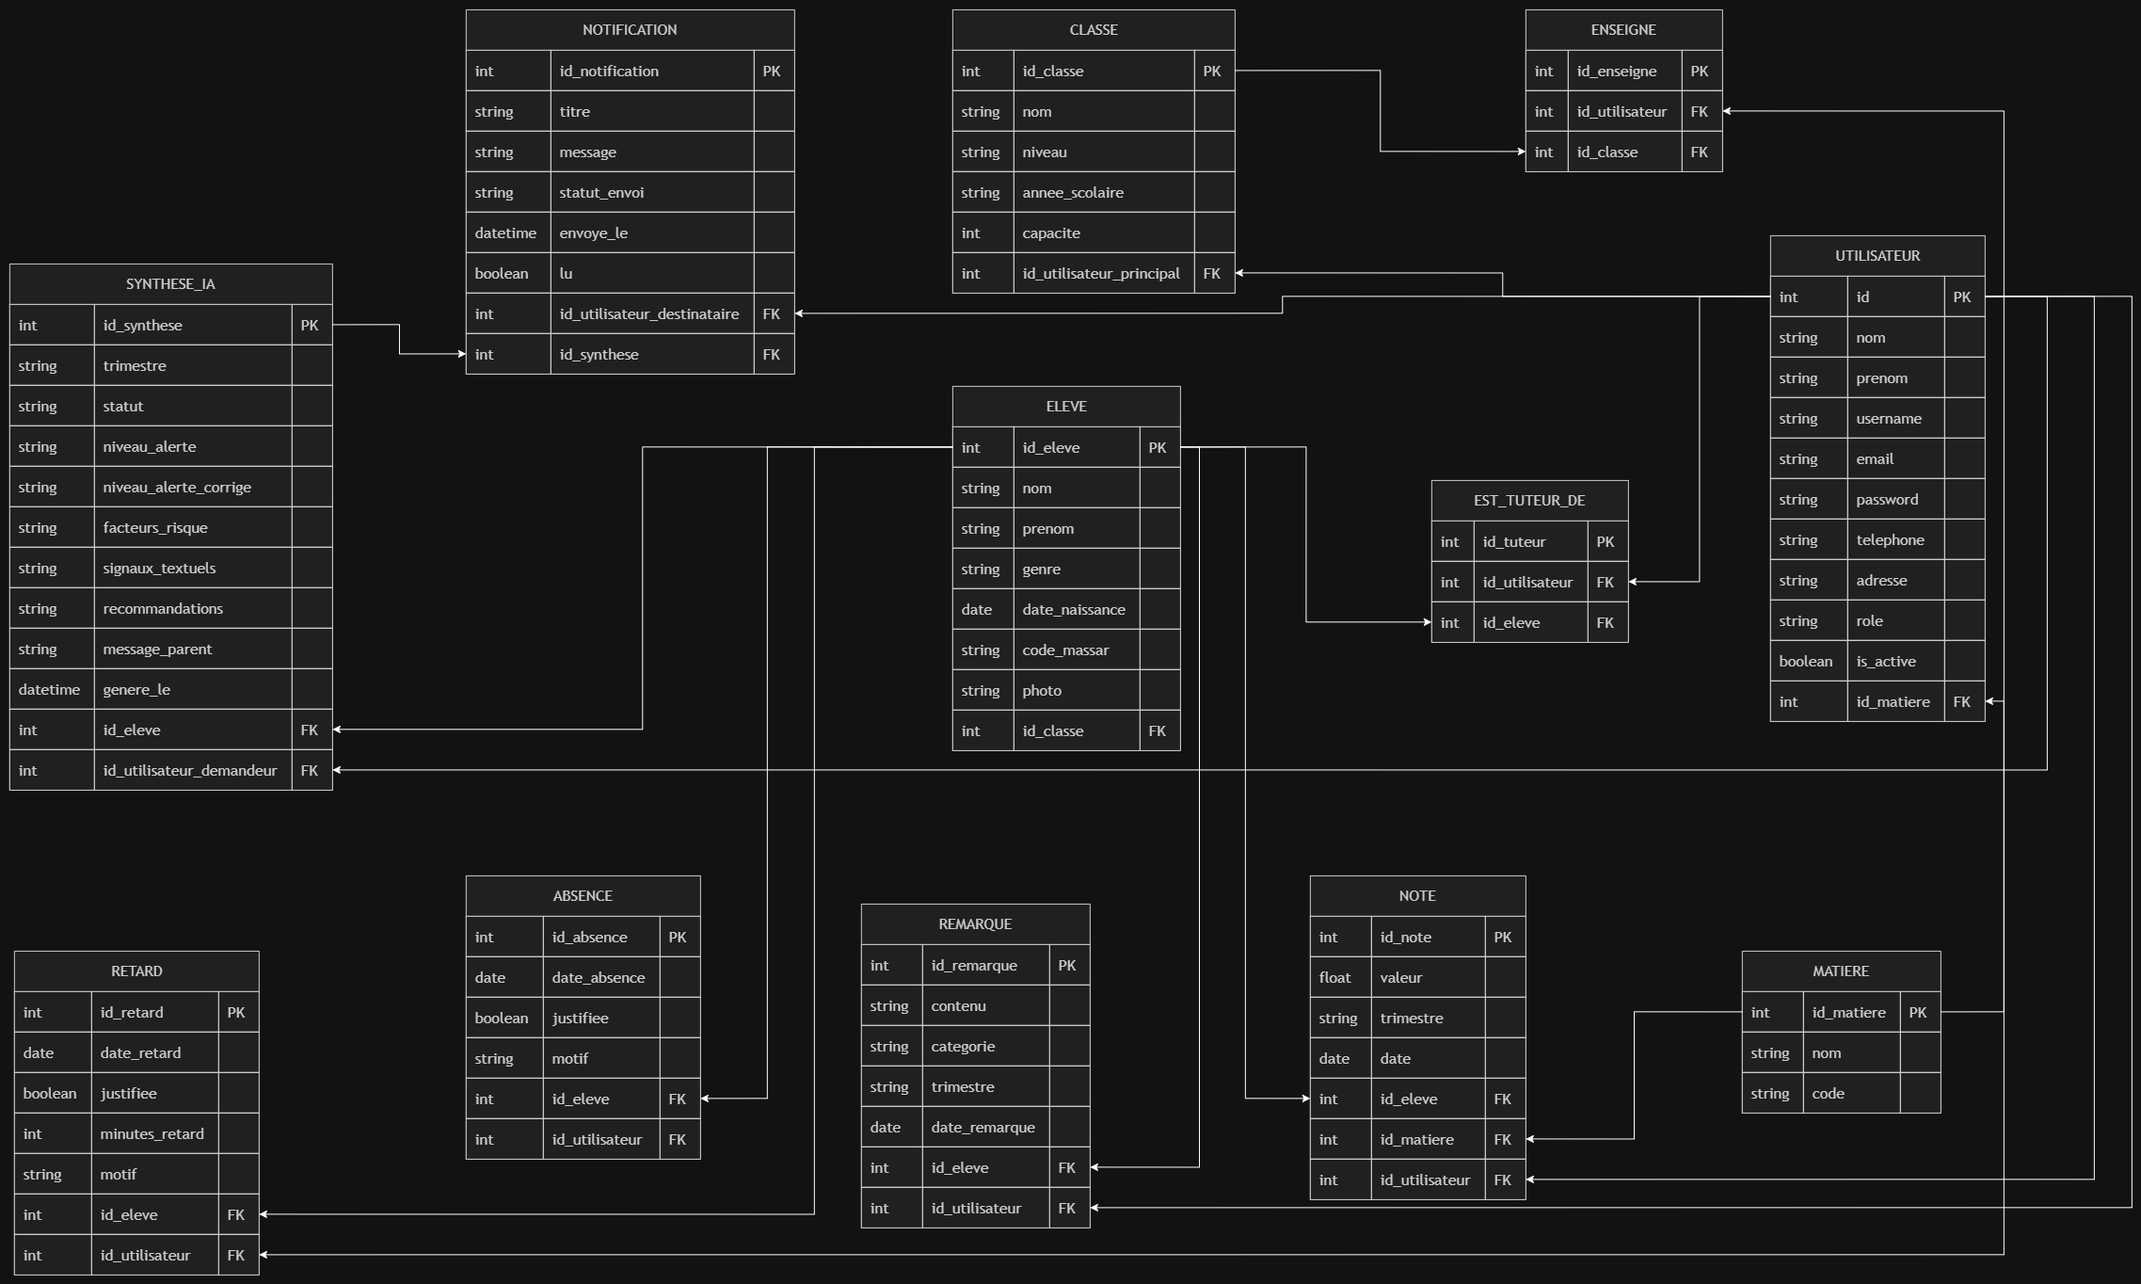
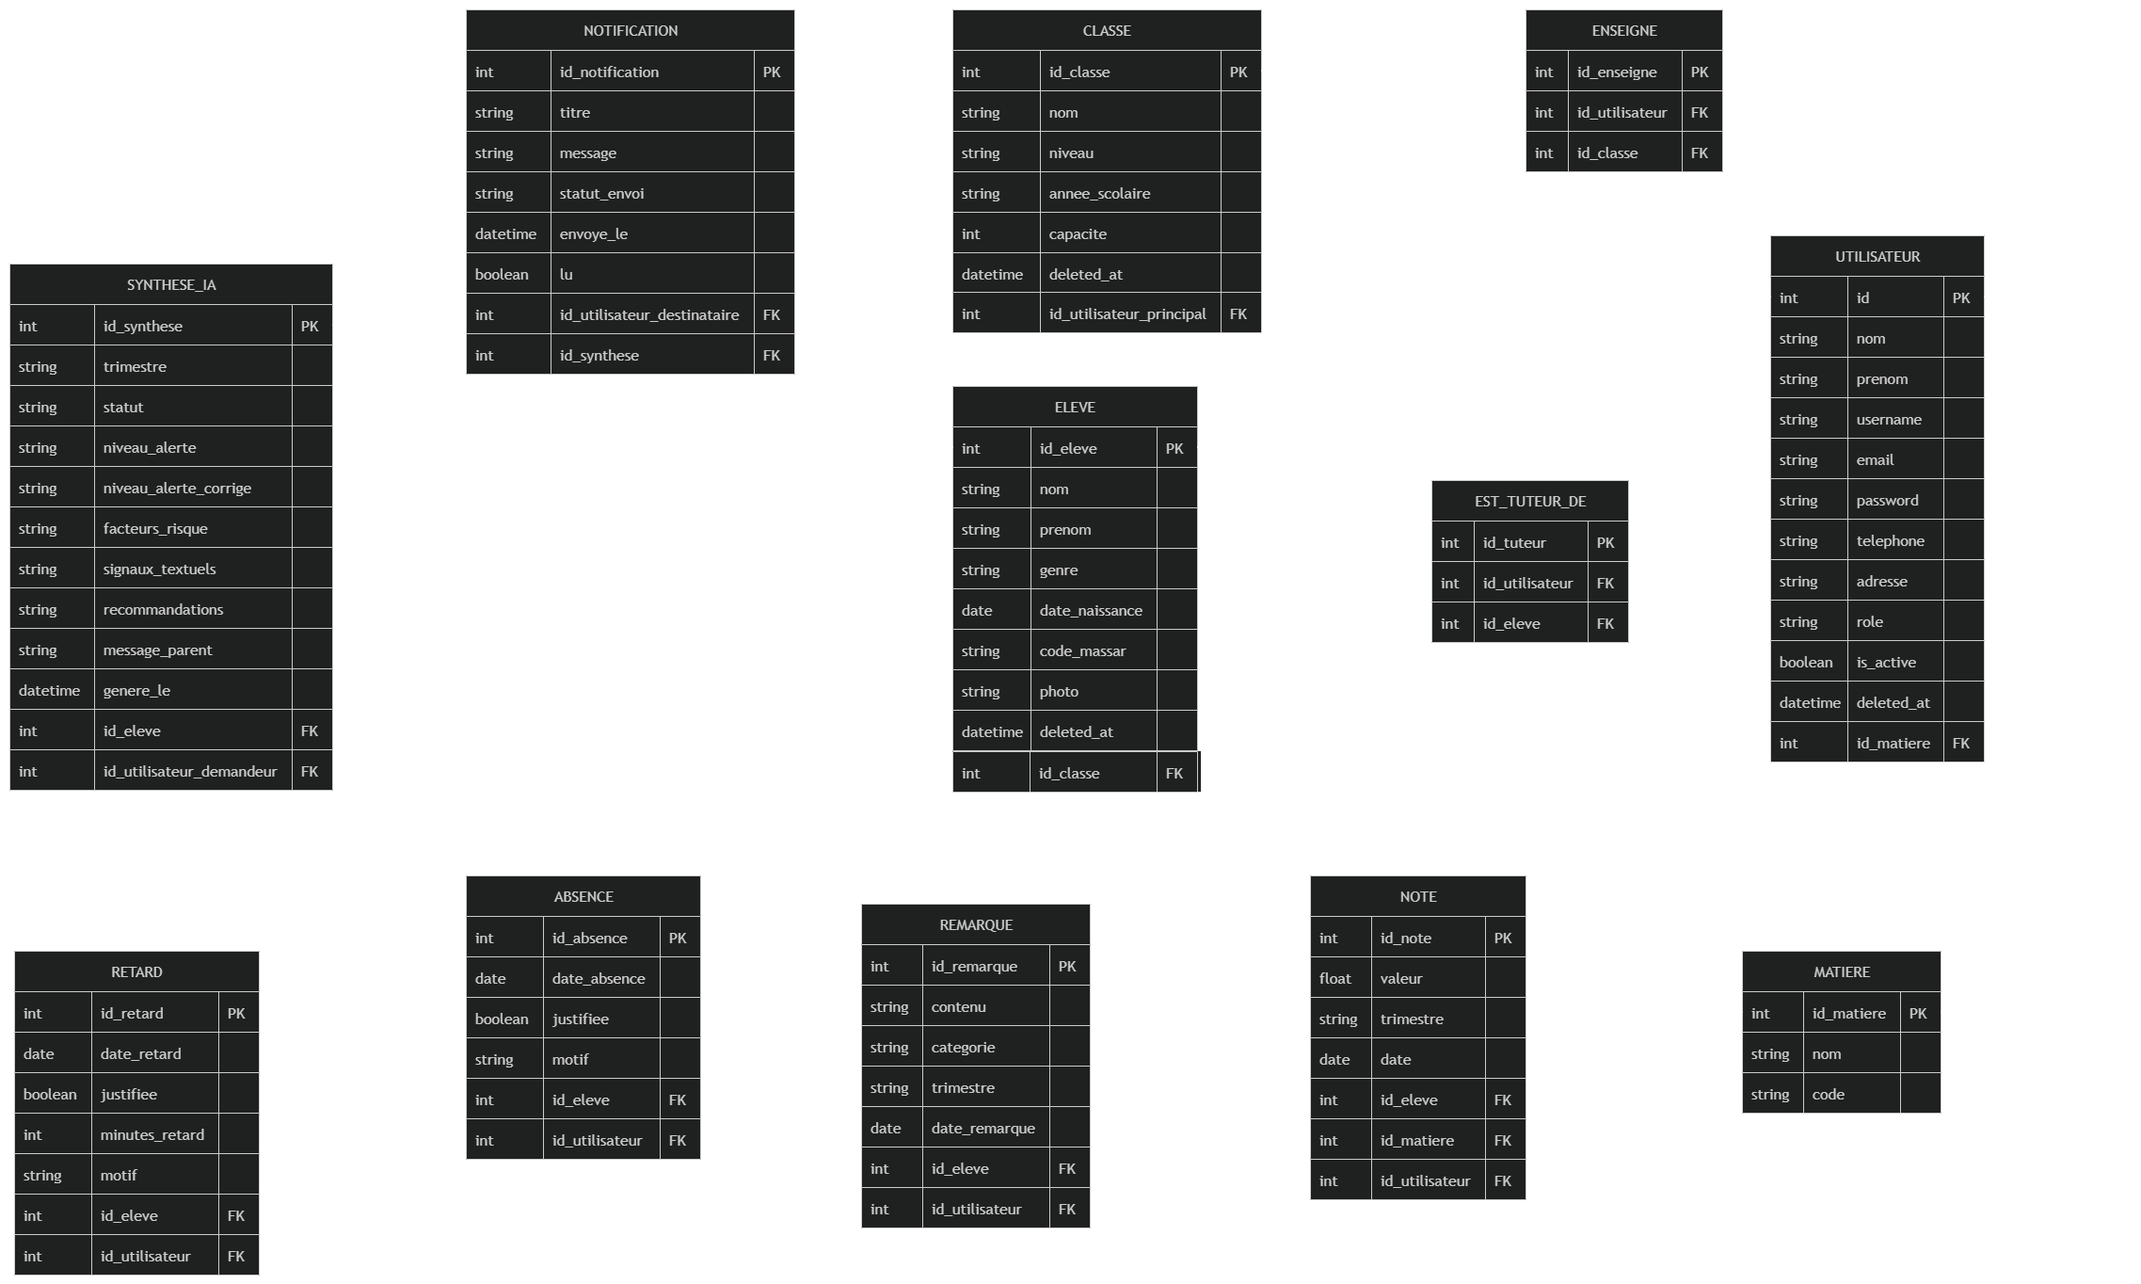
docs: update project documentation and diagrams

diff --git a/README.md b/README.md
@@ -1,52 +1,73 @@
 # ScolarWatch
 
-ScolarWatch is an AI-powered school management system built with Laravel 13, React, and Inertia.js. It helps schools manage students, classes, attendance, grades, and teacher observations while providing intelligent insights to identify students at risk of academic difficulties (décrochage scolaire).
+> AI-powered school management system — Laravel 13 · React · Inertia.js
 
-The application combines a modern web architecture with artificial intelligence to automate educational monitoring and improve communication between administrators, teachers, direction staff, and parents.
+ScolarWatch helps schools manage students, classes, attendance, grades and teacher observations, and uses AI to detect students at risk of academic difficulty (**décrochage scolaire**). It bridges the gap between administrators, teachers, direction staff and parents through a single web application and a REST API.
+
+## Table of contents
+
+- [Features](#features)
+- [Tech stack](#tech-stack)
+- [Architecture](#architecture)
+- [Getting started](#getting-started)
+- [Seeded accounts](#seeded-accounts)
+- [Configuration](#configuration)
+- [API documentation](#api-documentation)
+- [Testing](#testing)
+- [Code quality](#code-quality)
+- [CI/CD & deployment](#cicd--deployment)
+- [Project structure](#project-structure)
+- [Documentation & diagrams](#documentation--diagrams)
+- [Project status](#project-status)
 
 ## Features
 
-- 🔐 Secure authentication with Laravel Sanctum
-- 👥 Multi-role user management (Administrator, Teacher, Direction, Parent)
-- 🏫 Class and student management, with teacher-to-class and professeur principal assignment
-- 🗂 Archive, restore and permanently delete users, students and classes (individually or in bulk)
-- 👥 Bulk-assign students to a class
-- 📅 Attendance and lateness tracking
-- 📝 Grade and teacher remark management
-- 🤖 AI-generated student risk summaries using Groq and Laravel AI, with human-in-the-loop correction and validation
-- 📊 School analytics and reporting
-- 🚦 API health endpoint (`/api/health`) with database and Redis checks
-- 🐳 Docker-based development environment
-- ⚙ CI/CD with GitHub Actions (Sprint 4 deliverable)
-- ☁ Target deployment platform: AWS EC2
+- **Authentication** — Sanctum token authentication (`POST /api/login`), rate-limited login, logout.
+- **Multi-role accounts** — `admin`, `direction`, `enseignant`, `parent`.
+- **Users & subjects** — user management with per-role policies, subject (`matière`) management restricted to admins.
+- **Classes & students** — CRUD for classes and students, teacher-to-class assignment, `professeur principal` designation, bulk student re-assignment to a class.
+- **Archiving** — soft-delete, restore and force-delete users, students and classes, individually or in bulk.
+- **Academic tracking** — grades (notes), absences, lateness (retards) and teacher remarks, each with duplicate/limit validation.
+- **Parent portal** — parents view their children's grades, absences, lateness and remarks via a scoped "Espace parent" API.
+- **Notifications** — per-user notification inbox with read tracking.
+- **AI student risk analysis** — AI-generated per-student, per-term summaries (Groq / Laravel AI) with human-in-the-loop correction and parent notification on send.
+- **Health check** — `GET /api/health` reports database and Redis status.
+- **API documentation** — auto-generated documentation with Scribe (HTML, OpenAPI 3 and Postman collection).
+- **Docker & CI/CD** — containerized dev and prod builds, GitHub Actions CI + CD to GHCR.
 
-## Tech Stack
+## Tech stack
 
-### Backend
-- Laravel 13
-- PHP 8.4
-- Laravel Sanctum
-- Laravel AI (Groq provider, openai/gpt-oss-120b)
-- MySQL 8
-- Redis 7
+| Layer    | Technology |
+|----------|------------|
+| Backend  | Laravel 13, PHP 8.4, Laravel Sanctum, Laravel AI (Groq provider), Pest |
+| Frontend | React 19, Inertia.js 3, Vite, Tailwind CSS 4, TypeScript, Wayfinder |
+| Data     | MySQL 8, Redis 7 (cache + queues) |
+| DevOps   | Docker & Docker Compose, GitHub Actions (CI + CD), GHCR, Nginx (prod), target platform AWS EC2 |
 
-### Frontend
-- React
-- Inertia.js
-- Vite
+## Architecture
 
-### DevOps
-- Docker & Docker Compose
-- GitHub Actions (CI/CD — Sprint 4 deliverable)
-- GitHub Container Registry (GHCR)
-- AWS EC2 (Ubuntu) — target
+ScolarWatch is a layered Laravel application:
 
-## Getting Started
+```
+React + Inertia.js (SPA)  ──  Laravel REST API / Web  ──  MySQL 8
+                                     │
+                                     ├── Redis 7 (cache, queues)
+                                     └── Groq LLM (risk analysis, queued jobs)
+```
+
+- The **UI** is a client-side rendered SPA served through Inertia.js.
+- The **API** (`routes/api.php`) is a pure REST API secured with Sanctum tokens.
+- **Queued jobs** (`GenererSyntheseIA`, notifications) run through Redis and are processed by a queue worker.
+- Authorization is enforced through dedicated **policies** (users, classes, students, notes, absences, retards, remarks, notifications, AI syntheses).
+- Frontend routes are wired to backend endpoints with **Laravel Wayfinder** (typed route functions).
+
+## Getting started
 
 ### Prerequisites
-- Docker & Docker Compose (or PHP 8.4 + Composer + Node.js on the host)
 
-### Installation
+- Docker & Docker Compose, **or** PHP 8.4+, Composer, Node.js ≥ 22 on the host.
+
+### Installation (Docker)
 
 ```bash
 git clone git@github.com:Dev-Lhabib/scolarwatch.git
@@ -57,78 +78,202 @@ docker compose up -d
 docker compose exec app composer install
 docker compose exec app php artisan key:generate
 docker compose exec app php artisan migrate --seed
+docker compose exec app php artisan queue:work &
 ```
 
-The `docker compose up -d` command starts the application, queue worker, MySQL, Redis, and phpMyAdmin.
+`docker compose up -d` starts the application, the queue worker, MySQL, Redis and phpMyAdmin.
 
-### Frontend
+### Installation (local)
 
 ```bash
+composer install
 npm install
-npm run dev     # for development with hot reload
-npm run build   # for a production build
+
+cp .env.example .env
+php artisan key:generate
+php artisan migrate --seed
+
+npm run dev        # Vite dev server (hot reload)
+php artisan serve  # app at http://localhost:8000
+php artisan queue:work  # run the queue worker
 ```
+
+For a production build of the frontend: `npm run build`.
 
 ### Access
 
-| Service     | URL                          |
-|-------------|------------------------------|
-| Application | http://localhost:8000        |
-| phpMyAdmin  | http://localhost:8080        |
-| API health  | http://localhost:8000/api/health |
+| Service       | URL                          |
+|---------------|------------------------------|
+| Application   | http://localhost:8000        |
+| API docs      | http://localhost:8000/docs   |
+| phpMyAdmin    | http://localhost:8080        |
+| API health    | http://localhost:8000/api/health |
 
-### Seeded accounts
+## Seeded accounts
 
 After `php artisan migrate --seed`, the following accounts are available (password: `password`):
 
-| Role          | Username      | Email                           |
-|---------------|---------------|---------------------------------|
-| Administrator | `admin`       | `admin@scolarwatch.test`        |
-| Direction     | `direction`   | `direction@scolarwatch.test`    |
-| Teacher       | `enseignant1` | `enseignant1@scolarwatch.test`  |
-| Parent        | `parent1`     | `parent1@scolarwatch.test`      |
+| Role          | Username       | Email                             |
+|---------------|----------------|-----------------------------------|
+| Administrator | `admin`        | `admin@scolarwatch.test`          |
+| Direction     | `direction`    | `direction@scolarwatch.test`      |
+| Direction     | `direction2`   | `direction2@scolarwatch.test`     |
+| Teacher       | `enseignant1`  | `enseignant1@scolarwatch.test`    |
+| Parent        | `parent1`      | `parent1@scolarwatch.test`        |
 
-The AI agent requires a Groq API key: set `GROQ_API_KEY` in `.env`.
+The demo data also seeds subjects, classes, students, grades, absences, lateness, remarks, notifications and AI syntheses.
+
+## Configuration
+
+Key environment variables in `.env`:
+
+| Variable            | Purpose                                              |
+|---------------------|------------------------------------------------------|
+| `GROQ_API_KEY`      | API key for the AI risk-analysis provider (required) |
+| `QUEUE_CONNECTION`  | `redis` (production) or `sync` (testing)             |
+| `MAIL_MAILER`       | `log` by default; switch to SMTP for real emails     |
+| `SCRIBE_AUTH_KEY`   | Optional; token Scribe uses for live response calls  |
+
+## API documentation
+
+The REST API is documented with [Scribe](https://scribe.knuckles.wtf/) and served by the application:
+
+| Resource             | URL                              |
+|----------------------|----------------------------------|
+| Interactive docs     | `/docs`                          |
+| OpenAPI 3 spec       | `/docs.openapi`                  |
+| Postman collection   | `/docs.postman`                  |
+
+Regenerate the docs after changing endpoints or annotations:
+
+```bash
+php artisan scribe:generate
+```
+
+All endpoints are annotated in the controllers (`@group`, `@subgroup`, `@response`, `@urlParam`, `@bodyParam`, `@queryParam`); request body and validation rules are extracted automatically from the FormRequests. Every endpoint except `POST /api/login` and `GET /api/health` requires a Sanctum token (`Authorization: Bearer <token>`).
+
+A hand-curated Postman collection is also available at `docs/postman/ScolarWatch.postman_collection.json`.
 
 ## Testing
 
 ```bash
-docker compose exec app php artisan test --compact
+# Whole suite
+php artisan test --compact
+
+# A single test
+php artisan test --compact --filter=test_name
 ```
 
-The suite covers authentication, policies, CRUD endpoints, the AI synthesis flow, notifications, and the archive/bulk administration features.
+The suite (Pest) covers authentication, policies, CRUD endpoints, the AI synthesis flow, notifications, and the archive/bulk administration features. CI runs it against an in-memory SQLite database with `QUEUE_CONNECTION=sync`.
 
-## API
+## Code quality
 
-The API is a pure REST API served from `routes/api.php`, secured by Sanctum. A ready-to-use Postman collection is available at `docs/postman/ScolarWatch.postman_collection.json`.
+```bash
+./vendor/bin/pint            # Laravel Pint — format PHP code
+./vendor/bin/pint --test     # check only
 
-Key endpoints:
-- `POST /api/login` — authentication (email or username, rate-limited)
-- `GET /api/health` — database and Redis status checks
-- `/api/users`, `/api/eleves`, `/api/classes` — CRUD plus archive, restore, and force-delete endpoints
-- `POST /api/eleves/bulk-assign-class` — assign multiple students to a class in one operation
+npm run lint                 # ESLint (with --fix)
+npm run types:check          # TypeScript (tsc --noEmit)
+npm run format               # Prettier
+```
 
-## Documentation
+## CI/CD & deployment
 
-- `docs/cahier-des-charges.md` — functional specification
-- `docs/mcd.md`, `docs/mld.md` — conceptual and logical data models
-- `docs/diagrams/` — MCD, MLD, and architecture diagrams
-- `docs/labs/` — per-sprint lab reports
-- `docs/postman/` — Postman collection
+- **CI** (`.github/workflows/ci.yml`) — runs on every push/PR: full Pest test suite (PHP 8.4, Node 22, SQLite in-memory) and Laravel Pint code-style check.
+- **CD** (`.github/workflows/cd.yml`) — on release tags (`v*`), builds and pushes production images to `ghcr.io/dev-lhabib/scolarwatch` (`app-*` and `nginx-*` tags, immutable per commit), after waiting for CI to pass. SSH deployment to the AWS EC2 host is the next step (Phase 2).
+- **Production Dockerfile** — multi-stage build (Composer → Node → PHP-FPM runtime) producing a slim, non-root image with OPcache and a healthcheck; `docker-compose.prod.yml` consumes the GHCR images via Nginx.
 
-## Architecture
+## Project structure
 
-The application follows a modern layered architecture:
+```
+app/
+  Http/Controllers/     REST API controllers (annotated for Scribe)
+  Http/Requests/        FormRequests (validation rules, auto-documented)
+  Http/Middleware/      Inertia request handling
+  Models/               Eloquent models + policies
+  Notifications/        Mail notifications (décrochage alerts)
+  Jobs/                 Queued jobs (GenererSyntheseIA, …)
+config/
+  scribe.php            Scribe configuration
+database/
+  factories/ migrations/ seeders/
+docs/                   Specifications, models and lab reports
+resources/js/           React SPA (Inertia)
+routes/api.php          REST API routes (Sanctum-protected)
+```
 
-- React + Inertia.js for the user interface
-- Laravel REST API and web routes
-- MySQL for relational data
-- Redis for queues and caching
-- Groq LLM integration for AI-powered student risk analysis
-- Automated CI/CD pipeline with Docker and GitHub Actions
+## Documentation & diagrams
 
-## Project Status
+The project follows the Merise methodology from conceptual data model to implementation:
 
-🚧 Work in Progress
+```
+MCD  →  MLD  →  Database migrations (Laravel)
+```
 
-This repository is actively developed as part of a backend development bootcamp project (Simplon Maghreb — Projet Fil Rouge). New features are implemented incrementally following Scrum sprints.
+### MCD — Modèle Conceptuel de Données
+
+The MCD is the conceptual data model of the domain, built with Merise: it identifies the core entities (users, roles, classes, students, subjects, grades, absences, lateness, remarks, notifications, AI syntheses) and the relations between them, with their cardinalities.
+
+![ScolarWatch MCD](docs/diagrams/MCD.png)
+
+### MLD — Modèle Logique de Données
+
+The MLD translates the conceptual model into relational tables. It defines every table with its primary and foreign keys, ready to be implemented as Laravel migrations on MySQL.
+
+![ScolarWatch MLD](docs/diagrams/MLD.png)
+
+### Technical Architecture
+
+ScolarWatch runs as a client-side rendered SPA served through Inertia.js, backed by a Laravel REST API (Sanctum) on MySQL, with Redis for cache and queues and the Groq LLM for queued AI risk analysis.
+
+![ScolarWatch Architecture](docs/diagrams/architecture.png)
+
+### Application Routing Flow
+
+ScolarWatch has two main routing paths:
+
+1. **Web / Inertia requests** through `routes/web.php` — `Route::inertia(...)` renders the React pages of the SPA.
+2. **REST API requests** through `routes/api.php` — protected by Sanctum, they power the SPA's data layer (via Wayfinder typed actions) and external API clients.
+
+In both paths, requests flow through controllers, FormRequest validation, authorization policies and Eloquent models before reaching MySQL. Long-running work (AI synthesis generation, notifications) is dispatched to a Redis queue and processed asynchronously by a queue worker.
+
+```mermaid
+flowchart TD
+    A[Browser] --> B[React + Inertia.js]
+
+    B --> C[routes/web.php]
+    C --> D[Inertia React Pages]
+
+    B --> E[routes/api.php]
+    E --> F[Sanctum Authentication]
+    F --> G[Controller]
+    G --> H[FormRequest Validation]
+    H --> I[Policy Authorization]
+    I --> J[Eloquent Model]
+    J --> K[(MySQL)]
+
+    G --> L[GenererSyntheseIA Job]
+    L --> M[(Redis Queue)]
+    M --> N[Queue Worker]
+    N --> O[Groq LLM]
+    N --> P[Notifications]
+    P --> K
+```
+
+### Data model documents
+
+- [`docs/mcd.md`](docs/mcd.md) — conceptual data model (MCD): the entities, attributes and binary relations with cardinalities, plus a layout guide and verification checklist.
+- [`docs/mld.md`](docs/mld.md) — logical data model (MLD): all tables derived from the MCD, their primary/foreign keys and a summary of every foreign key constraint.
+
+### Lab reports
+
+- `docs/labs/` — per-sprint lab reports (requirements, IA experimentation, CRUD, frontend, communication).
+- `docs/labs/lab-s3-coverage-audit.md` — API coverage audit of sprint 3.
+
+### API & Postman
+
+- `docs/postman/ScolarWatch.postman_collection.json` — hand-curated Postman collection (see also [API documentation](#api-documentation) for the live Scribe docs).
+
+## Project status
+
+🚧 Work in progress — developed as a backend bootcamp project (Simplon Maghreb — *Projet Fil Rouge*), following Scrum sprints. New features are added incrementally; see the lab reports in `docs/labs/` for the current milestone.

diff --git a/docs/mld.md b/docs/mld.md
@@ -18,8 +18,8 @@ telephone
 adresse
 role
 is_active
-id_matiere → MATIERE(id_matiere)
 deleted_at DATETIME NULL
+id_matiere → MATIERE(id_matiere)
 ```
 
 ### CLASSE
@@ -29,8 +29,8 @@ nom
 niveau
 annee_scolaire
 capacite
-id_utilisateur_principal → UTILISATEUR(id)
 deleted_at DATETIME NULL
+id_utilisateur_principal → UTILISATEUR(id)
 ```
 
 ### ELEVE
@@ -42,8 +42,8 @@ genre
 date_naissance
 code_massar
 photo
-id_classe → CLASSE(id_classe)
 deleted_at DATETIME NULL
+id_classe → CLASSE(id_classe)
 ```
 
 ### MATIERE

diff --git a/AGENTS.md b/AGENTS.md
@@ -9,7 +9,7 @@ The Laravel Boost guidelines are specifically curated by Laravel maintainers for
 
 This application is a Laravel application and its main Laravel ecosystems package & versions are below. You are an expert with them all. Ensure you abide by these specific packages & versions.
 
-- php - 8.4
+- php - 8.5
 - inertiajs/inertia-laravel (INERTIA_LARAVEL) - v3
 - laravel/ai (AI) - v0
 - laravel/framework (LARAVEL) - v13
